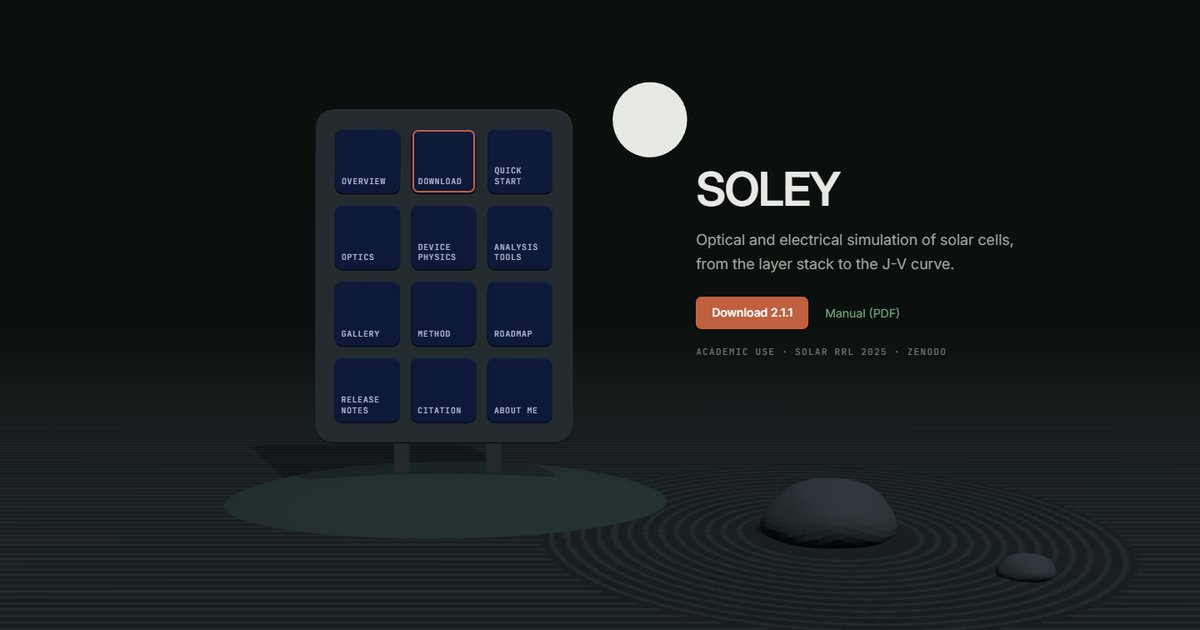
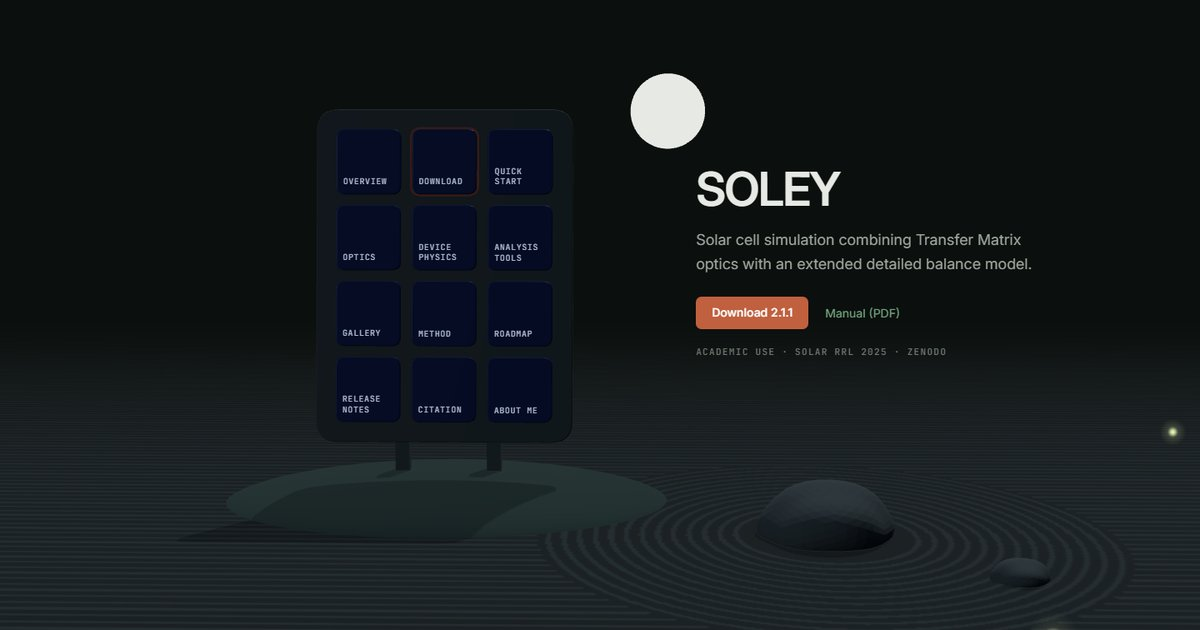
Plainer subtitle; About me tells how SOLEY actually started

diff --git a/index.html b/index.html
@@ -4,9 +4,9 @@
   <meta charset="UTF-8">
   <meta name="viewport" content="width=device-width, initial-scale=1, viewport-fit=cover">
   <title>SOLEY · Solar cell simulation</title>
-  <meta name="description" content="SOLEY is a solar cell simulator combining Transfer Matrix Method optics with an extended detailed balance model, from the layer stack to the J-V curve, the EQE and the luminescence. Free for academic use.">
+  <meta name="description" content="SOLEY is a solar cell simulator combining Transfer Matrix Method optics with an extended detailed balance model, which calculates the J-V curve, the EQE and the luminescence of single-junction and multijunction devices. Free for academic use.">
   <meta property="og:title" content="SOLEY · Solar cell simulation">
-  <meta property="og:description" content="Optical and electrical simulation of solar cells, from the layer stack to the J-V curve. Free for academic use.">
+  <meta property="og:description" content="Solar cell simulation combining Transfer Matrix optics with an extended detailed balance model. Free for academic use.">
   <meta property="og:image" content="https://soley-pv.com/assets/og.jpg">
   <meta property="og:url" content="https://soley-pv.com/">
   <link rel="canonical" href="https://soley-pv.com/">
@@ -48,7 +48,7 @@
   <canvas id="scene" aria-hidden="true"></canvas>
   <div class="hero">
     <h1>SOLEY</h1>
-    <p>Optical and electrical simulation of solar cells, from the layer stack to the J-V curve.</p>
+    <p>Solar cell simulation combining Transfer Matrix optics with an extended detailed balance model.</p>
     <div class="hero-actions">
       <a class="btn btn-primary" href="#download">Download 2.1.1</a>
       <a href="https://zenodo.org/records/21976471/files/manual_2_1_1.pdf?download=1">Manual (PDF)</a>
@@ -445,7 +445,7 @@
       <div class="about">
         <img class="about-photo" src="assets/about.jpg" alt="Zacharie Jehl Li-Kao" width="400" height="500" loading="lazy">
         <p>I am a physicist working on solar cells at the Universitat Politècnica de Catalunya (UPC) in Barcelona, where I teach and supervise PhD students in the Solar Energy Materials group. Before Barcelona I spent about six years in Japan, first at Aoyama Gakuin University and Tokyo University of Science on thin-film tandem cells, then at the University of Tokyo on hot-carrier devices, and I still go back regularly to Ritsumeikan University in Kyoto, where we started a small research line on visual synapses.</p>
-        <p>I started writing SOLEY in 2020 because I needed a tool linking the optics of a full stack to the device physics without running a complete drift-diffusion calculation every time. It has grown a lot since then, mostly thanks to the questions and bug reports of the people using it, and I am always happy to hear from anyone who finds it useful, or who finds something wrong with it.</p>
+        <p>SOLEY started as a collection of tools and scripts which I began writing during my PhD thesis, and which I progressively combined into a single program from 2020. Along the way I became interested in describing solar cells in a more thermodynamic way, starting from the detailed balance, and in checking that this approach gives results close to those of drift-diffusion, which is what we would expect for most devices. It has grown a lot since then, mostly thanks to the questions and bug reports of the people using it, and I am always happy to hear from anyone who finds it useful, or who finds something wrong with it.</p>
         <h3>Research</h3>
         <p>My PhD, at Université Paris-Saclay in a CNRS laboratory, was on ultrathin CIGS solar cells and their lift-off from the substrate. I then worked on narrow-bandgap chalcogenides for tandem cells in Japan, on hot-carrier solar cells at the University of Tokyo, and on bifacial semi-transparent modules for building integration at IREC in Barcelona. Today most of my time goes to device modelling, and to the visual synapse project with our colleagues in Kyoto.</p>
         <p>I also coordinate SOLIS, a European staff exchange project between eight partners in five countries, which mostly means helping people travel between the labs and making sure everybody has what they need. At UPC I teach power electronics and energy engineering.</p>
